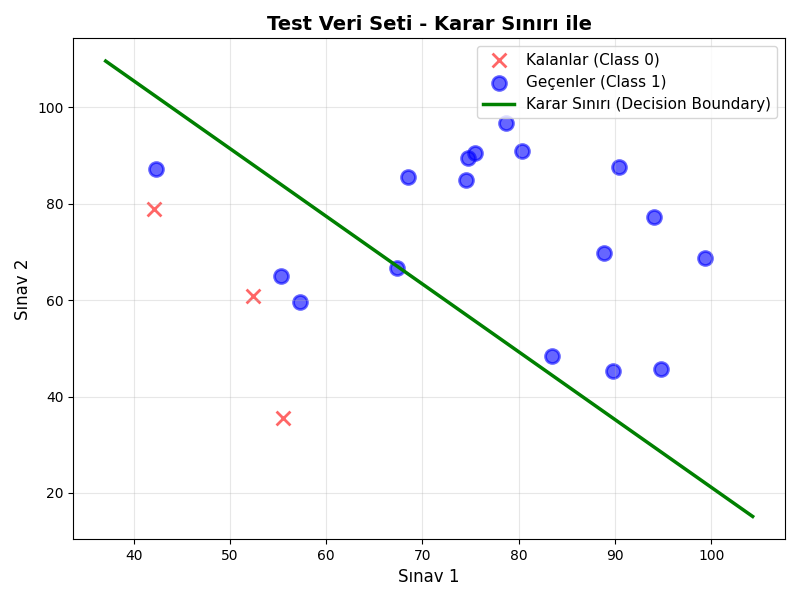
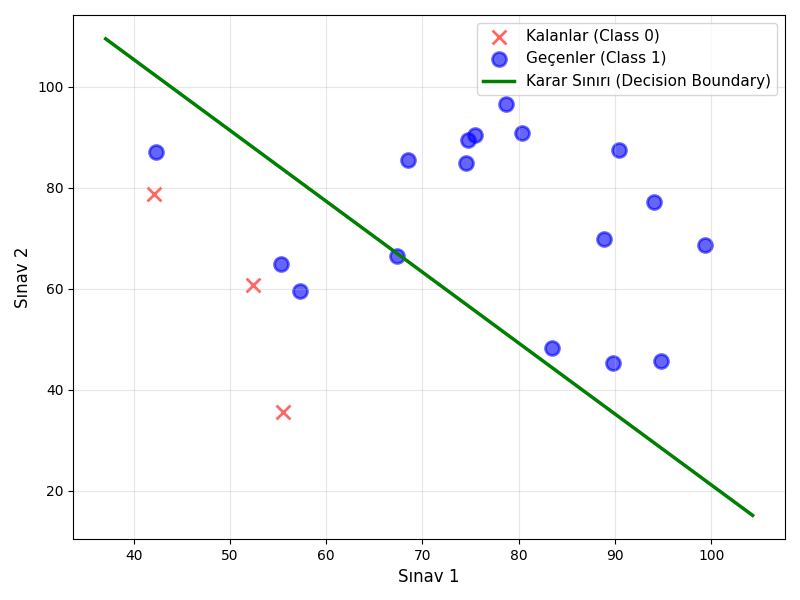
Refactor README.md for clarity, update scatter plot terminology, and revise training logs with new timestamps and metrics

diff --git a/src/utils.py b/src/utils.py
@@ -21,7 +21,7 @@ def ensure_dir_exists(directory: str) -> None:
 def plot_scatter(
     X: np.ndarray,
     y: np.ndarray,
-    data: str = "tüm",
+    data: str = "whole",
     save_path: str = "../results/graphs/",
 ) -> None:
     """
@@ -29,7 +29,7 @@ def plot_scatter(
     Args:
         X (np.ndarray): Özellik matrisi.
         y (np.ndarray): Hedef değişken vektörü.
-        data (str): Veri seti türü (örneğin, "train", "val", "test", "tüm").
+        data (str): Veri seti türü (örneğin, "train", "val", "test", "whole").
         save_path (str): Grafiğin kaydedileceği dosya yolu.
     """
     ensure_dir_exists(save_path)
@@ -60,7 +60,6 @@ def plot_scatter(
         marker="o",
     )
 
-    plt.title(f"{data.capitalize()} Veri Setinin Scatter Plotu")  # type: ignore
     plt.xlabel("Sınav 1")  # type: ignore
     plt.ylabel("Sınav 2")  # type: ignore
     plt.legend()  # type: ignore
@@ -138,7 +137,6 @@ def plot_decision_boundary(
             label="Karar Sınırı (Decision Boundary)",
         )
 
-    plt.title(f"{data.capitalize()} Veri Seti - Karar Sınırı ile", fontsize=14, fontweight="bold")  # type: ignore
     plt.xlabel("Sınav 1", fontsize=12)  # type: ignore
     plt.ylabel("Sınav 2", fontsize=12)  # type: ignore
     plt.legend(fontsize=11)  # type: ignore
@@ -171,7 +169,6 @@ def plot_loss_curve(
     plt.figure(figsize=(8, 6))  # type: ignore
     plt.plot(epochs, train_losses, label="Eğitim Kaybı", color="blue")  # type: ignore
     plt.plot(epochs, val_losses, label="Doğrulama Kaybı", color="orange")  # type: ignore
-    plt.title("Eğitim ve Doğrulama Kaybı")  # type: ignore
     plt.xlabel("Epoch")  # type: ignore
     plt.ylabel("Kayıp")  # type: ignore
     plt.legend()  # type: ignore

diff --git a/src/dataset.py b/src/dataset.py
@@ -112,7 +112,7 @@ def prepare_and_save_data() -> None:
     raw_train_data, raw_val_data, raw_test_data = split_data(X_raw, y)
     save_splits("../data/raw", raw_train_data, raw_val_data, raw_test_data)
 
-    plot_scatter(X_raw, y, data="tüm")
+    plot_scatter(X_raw, y, data="whole")
     plot_scatter(raw_train_data[0], raw_train_data[1], data="train")
 
     # Özellikleri normalleştir

diff --git a/README.md b/README.md
@@ -36,7 +36,7 @@ makine-ogrenmesi-hw1/
 │   │   ├── loss_curve.png           # Eğitim/doğrulama kayıp grafiği
 │   │   ├── test_decision_boundary.png # Test verisi karar sınırı grafiği
 │   │   ├── train_decision_boundary.png # Eğitim verisi karar sınırı grafiği
-│   │   ├── tüm_scatter_plot.png     # Tüm verinin scatter plot grafiği
+│   │   ├── whole_scatter_plot.png     # Tüm verinin scatter plot grafiği
 │   │   ├── train_scatter_plot.png   # Eğitim verisinin scatter plot grafiği
 │   │   └── val_decision_boundary.png   # Doğrulama verisi karar sınırı grafiği
 │   ├── logs/                        # Eğitim logları
@@ -437,7 +437,7 @@ Görselleştirme ve dosya yönetimi fonksiyonları.
 - Dizin yoksa oluşturur
 - `os.makedirs()` ile recursive oluşturma
 
-#### `plot_scatter(X, y, data='tüm', save_path='../results/graphs/')`
+#### `plot_scatter(X, y, data='whole', save_path='../results/graphs/')`
 - Veriyi 2D scatter plot olarak çizer
 - İki sınıfı farklı renklerle gösterir:
   - **Kalanlar (Class 0)**: Kırmızı 'x' - Sınavdan kalan adaylar
@@ -691,7 +691,7 @@ Model başarılı şekilde eğitilir ve şu metrikler hesaplanır:
 ### Çıktı Dosyaları
 
 1. **Scatter Plots** (`results/graphs/`)
-   - `tüm_scatter_plot.png`: Tüm veri setinin görselleştirmesi
+   - `whole_scatter_plot.png`: Tüm veri setinin görselleştirmesi
    - `train_scatter_plot.png`: Eğitim verisinin görselleştirmesi
    - Her sınıf farklı renk ve işaretle gösterilir
    - Eksenler: Sınav 1 ve Sınav 2 skorları
